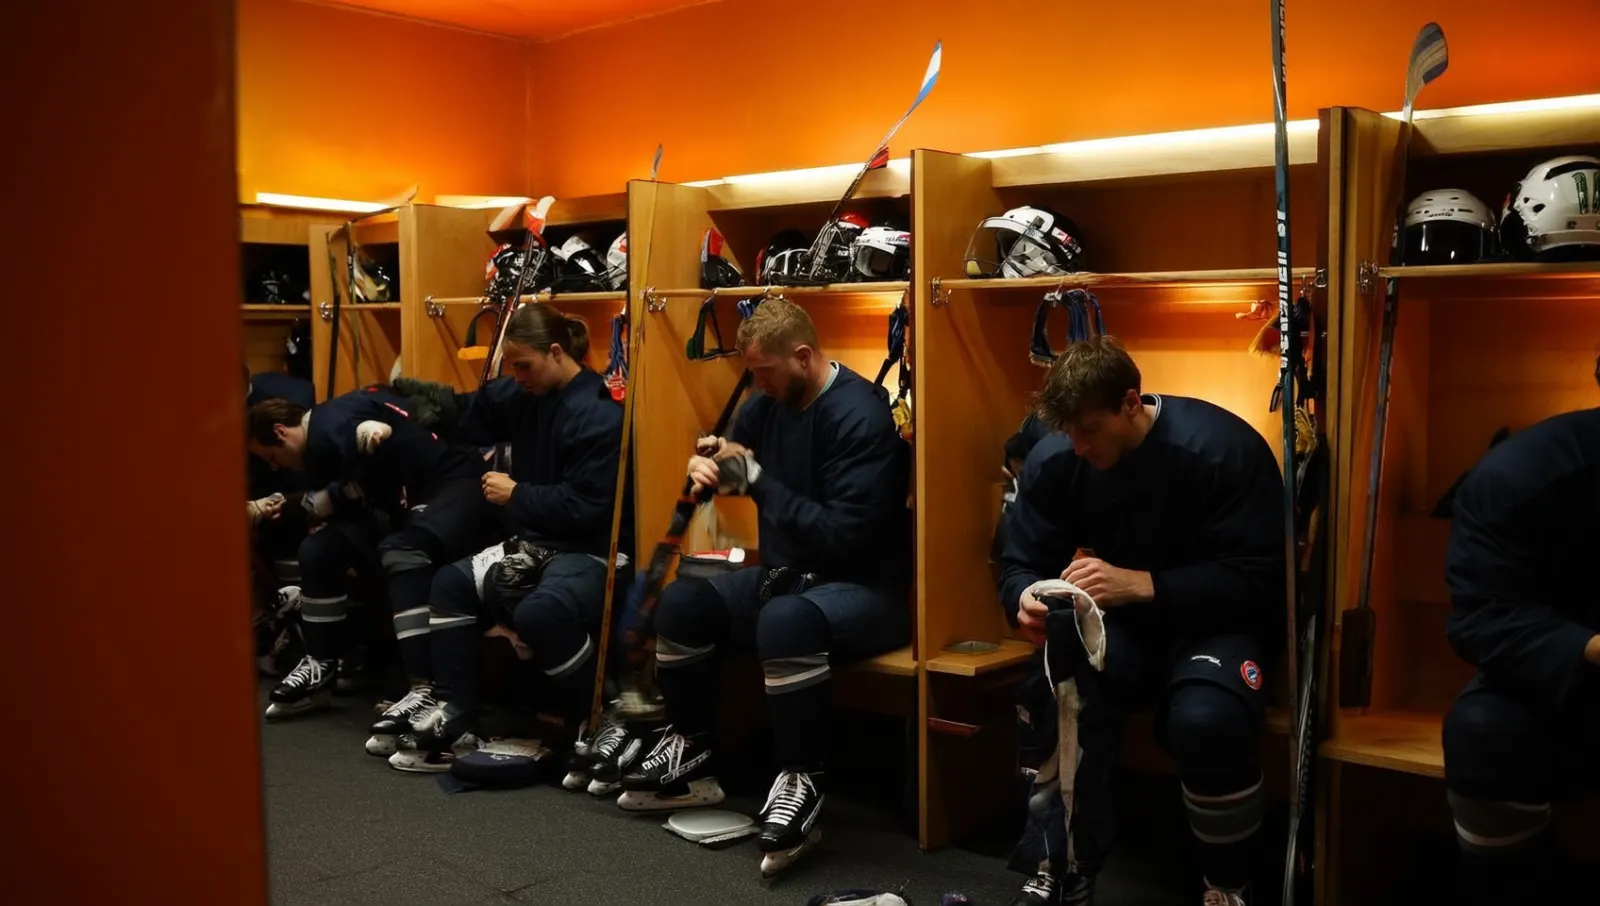
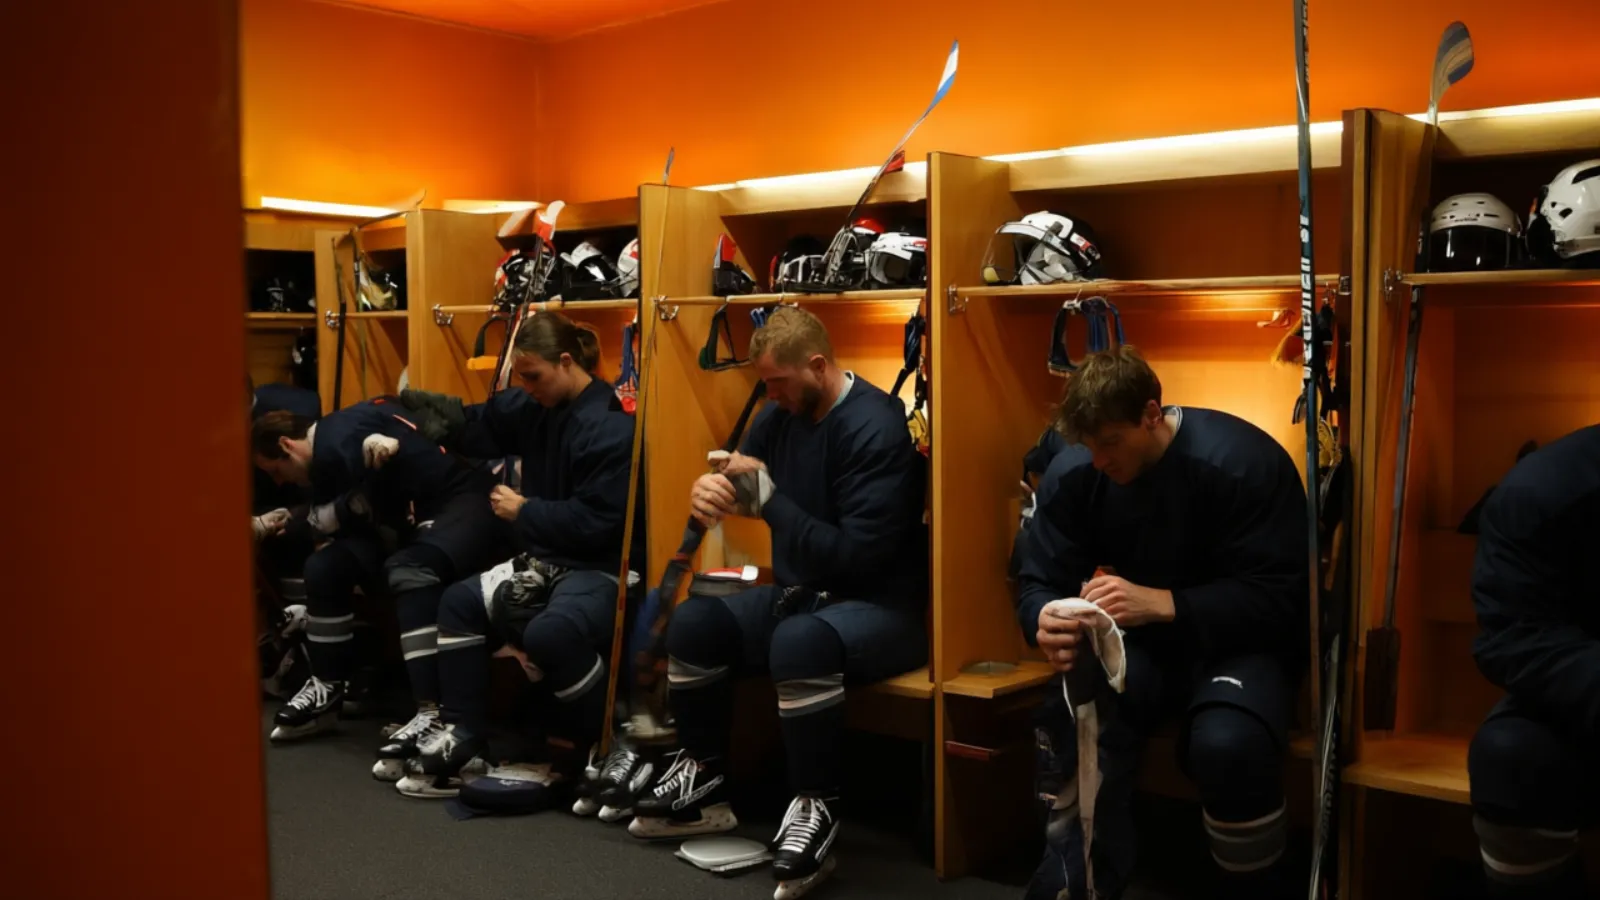
feat(eishockey): KI-Assistent und ganzer Nachwuchs auf /eishockey/
Für das ZSC-Treffen (2026-10-23): Der Coach will eine übersichtliche,
effiziente Softwarelandschaft und einen Assistenten, der ihm möglichst viel
Arbeit abnimmt. Zwei neue Blöcke direkt nach dem Board:

- KI-Assistent: echte Antwort des Team-Assistenten im Wochenplan des
  Demo-Kaders (Woche in 17 s entworfen, Verletzte ausgelassen, müde Spieler
  genannt, fünf Entwürfe, nichts geht raus, bevor der Staff sendet).
- Ein Club, alle Mannschaften: Verbandsansicht mit allen Teams und
  Kennzahlen, die Clubleitung sieht nie Namen oder Diagnosen; Kader-Import
  aus jeder Datei, Anamnese-Links für alle auf einem Bildschirm.

Der frühere Wochenplan-Block geht im Assistenten-Block auf. Das
Garderoben-Foto hatte eine Hand mit sechs Fingern, per Edit korrigiert
(Higgsfield USD ~0.15, Assistent ~USD 0.10).

Rückweg: die zwei Einträge in EishockeyPage.jsx entfernen; keine Daten.

diff --git a/src/pages/EishockeyPage.jsx b/src/pages/EishockeyPage.jsx
@@ -9,8 +9,10 @@ import TeamSportPage from '../components/site/TeamSportPage'
  *
  * Screens: the Team-Demo squad "HC Seewald U20 Elit" in German — board,
  * season, VBT and the injury dialog are the deck's own captures
- * (public/images/teamsport/), the week plan with the team assistant was
- * captured for this page (2026-10-22). Photos: Higgsfield scenes in
+ * (public/images/teamsport/); the team assistant's real answer (one week
+ * drafted in 17 s) and the federation overview of the demo clubs were
+ * captured for this page (2026-10-23, for the ZSC meeting: the coach wants
+ * a clear, efficient landscape and an assistant that takes work off him). Photos: Higgsfield scenes in
  * public/eishockey/ (skates edited out of the gym scenes, the model puts
  * them on everyone); the staff room and the weight room for the app block
  * are /fussball/'s, they carry no sport. */
@@ -43,6 +45,32 @@ const EISHOCKEY = {
       ],
     },
     {
+      eyebrow: 'KI-Assistent',
+      title: 'Der Assistent nimmt Ihnen die Planung ab.',
+      accent: 'Entscheiden tut der Staff.',
+      photo: '/fussball/staff.webp',
+      screen: '/eishockey/screen-assistant.webp',
+      alt: 'Team-Assistent im Wochenplan: nennt die müden Spieler, lässt Verletzte automatisch aus, fragt nach Reha-Einheiten und legt fünf Entwürfe aufs Board',
+      text: [
+        'Ein Satz genügt: „Plane diese Woche rund um die Spiele, Torhüter separat.“ In Sekunden liegt die Woche als Entwurf im Plan, für Stürmer, Verteidiger und Torhüter, in Prozent vom Maximum, die Kilos für jeden Spieler gerechnet.',
+        'Der Assistent kennt den Kader, das Board, die Spiele und Ihre Bausteine. Verletzte lässt er von selbst aus, müde Spieler nennt er mit Namen, und er fragt nach, bevor er Reha-Einheiten anlegt.',
+        'Er beantwortet auch die Fragen vom Morgen: Wer sollte heute nicht schwer heben, und warum? Wem fehlt noch ein Maximum? Nichts geht an die Spieler, bevor der Staff die Woche sendet.',
+      ],
+    },
+    {
+      eyebrow: 'Ein Club, alle Mannschaften',
+      title: 'Der ganze Nachwuchs auf einer Seite.',
+      accent: 'Jedes Team sieht nur sich selbst.',
+      photo: '/eishockey/hero.webp',
+      screen: '/eishockey/screen-club.webp',
+      alt: 'Organisationsübersicht: alle Teams eines Verbands mit Spielern, Verfügbarkeit, Verletzungen, Belastung, mentalem Check-in und offenen Einwilligungen der Eltern',
+      text: [
+        'Von der U13 bis zur ersten Mannschaft: pro Team Spieler, Verfügbarkeit, offene Verletzungen, Belastung, mentaler Check-in, offene Einwilligungen der Eltern und das nächste Spiel. Summiert für den ganzen Club.',
+        'Die Clubleitung sieht Kennzahlen, nie Namen, Diagnosen oder einzelne Check-ins. Ein Team öffnet sich nur für seinen eigenen Staff.',
+        'Ein neuer Kader kommt aus jeder Datei ins System, ob Excel, PDF oder ein Foto der Teamliste, und die Anamnese-Links für alle Spieler ohne Anamnese entstehen auf einem Bildschirm. Wechselt ein Junior hoch, nimmt er seine Daten mit.',
+      ],
+    },
+    {
       eyebrow: 'Spieltag',
       title: 'Die Spiele steuern die Woche.',
       accent: 'Jeder Tag relativ zum nächsten Bully.',
@@ -64,19 +92,6 @@ const EISHOCKEY = {
       text: [
         'Kein Messgerät pro Spieler, ein Handy reicht: Es filmt den Satz von der Seite, das System zeichnet den Weg der Stange und misst jede Wiederholung.',
         'Bewegt der Spieler dieselbe Last schneller, ist er explosiver geworden. Das Maximum wird geschätzt, ohne Maximalversuch, und die Bereitschaft am eigenen Basiswert gemessen.',
-      ],
-    },
-    {
-      eyebrow: 'Daten, die Entscheidungen tragen',
-      title: 'Einmal planen, in Prozent vom Maximum.',
-      accent: 'Die Kilos rechnet das System.',
-      photo: '/eishockey/kabine.webp',
-      screen: '/eishockey/screen-plan.webp',
-      alt: 'Wochenplan des Teams: Tage relativ zum Spiel, Stürmer, Verteidiger und Torhüter als Gruppen, Leisten-Prävention aus der Bibliothek und der Team-Assistent',
-      text: [
-        'Stürmer, Verteidiger und Torhüter als eigene Gruppen, die Kilos stimmen für jeden Spieler. Neues Maximum, neue Kilos, ohne Neuplanung.',
-        'Bausteine wie die Leisten- und Adduktoren-Prävention liegen in der Bibliothek und kommen per Ziehen in die Woche.',
-        'Der KI-Assistent kennt jeden Spieler und entwirft die Trainingswoche des Teams auf Zuruf, die Torhüter separat. Entscheiden tut der Staff.',
       ],
     },
     {

diff --git a/TESTING.md b/TESTING.md
@@ -17,7 +17,10 @@ Testkonten `qa-<vorname>+coach@…`, alles Angelegte mit Präfix `[QA]`.
   Blöcke mit echten Screens aus „HC Seewald U20 Elit": Board, Spielplan,
   Schnellkraft (VBT mit Stangenweg), Wochenplan mit Stürmer/Verteidiger/
   Torhüter und Team-Assistent, Return-to-Play (Off-Ice, Eis ohne Kontakt).
-  Keine Schlittschuhe im Kraftraum, kein echter Clubname. Spieler-App mit drei
+  Keine Schlittschuhe im Kraftraum, kein echter Clubname. Seit 2026-10-23
+  nach dem Board: Block „KI-Assistent" (echte Antwort im Wochenplan, fünf
+  Entwürfe) und „Ein Club, alle Mannschaften" (Verbandsansicht 1004 Spieler,
+  39 Teams). Garderobe: alle Hände mit fünf Fingern, kein Wappen am Knie. Spieler-App mit drei
   iPhones, Block „Aus Zürich" auf dem Bergsee. Anfrage kommt mit Quelle
   `prometheus.coach/eishockey` an, `?fuer=HC%20Test` setzt den Schlusssatz.
   Gegencheck `/fussball/` nach dem Umbau auf die gemeinsame Vorlage: sieht aus
